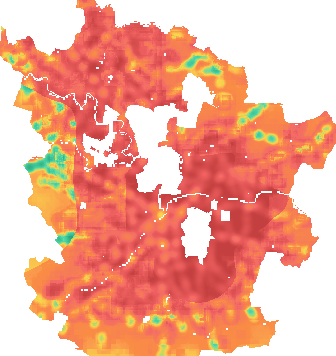
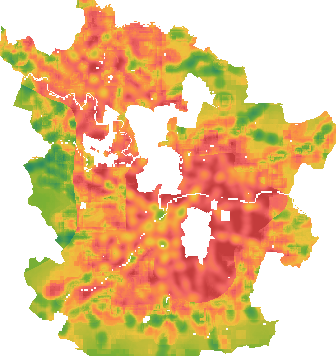
fix(transit-desert): recalibrate color ramp with Natural Breaks so green transit corridors are clearly visible

diff --git a/src/components/Sidebar.tsx b/src/components/Sidebar.tsx
@@ -489,26 +489,26 @@ export const Sidebar: React.FC<SidebarProps> = ({
               </div>
               <div style={{ display: 'flex', alignItems: 'center', justifyContent: 'space-between' }}>
                 <span style={{ display: 'flex', alignItems: 'center', gap: '6px', color: '#1e293b', fontWeight: 600 }}>
-                  <span style={{ width: '10px', height: '10px', borderRadius: '2px', background: '#dc2626', flexShrink: 0 }} />
-                  Critical Desert (&lt; -0.45)
+                  <span style={{ width: '10px', height: '10px', borderRadius: '2px', background: '#b91c1c', flexShrink: 0 }} />
+                  Critical Desert (&lt; -0.62)
                 </span>
-                <span style={{ fontSize: '9.5px', color: '#dc2626', background: '#fef2f2', padding: '1px 5px', borderRadius: '3px', fontWeight: 700 }}>
+                <span style={{ fontSize: '9.5px', color: '#b91c1c', background: '#fef2f2', padding: '1px 5px', borderRadius: '3px', fontWeight: 700 }}>
                   Severe Deficit
                 </span>
               </div>
               <div style={{ display: 'flex', alignItems: 'center', justifyContent: 'space-between' }}>
                 <span style={{ display: 'flex', alignItems: 'center', gap: '6px', color: '#1e293b', fontWeight: 600 }}>
                   <span style={{ width: '10px', height: '10px', borderRadius: '2px', background: '#f97316', flexShrink: 0 }} />
-                  High Deficit (-0.45 to -0.15)
+                  High Deficit (-0.62 to -0.44)
                 </span>
                 <span style={{ fontSize: '9.5px', color: '#ea580c', background: '#fff7ed', padding: '1px 5px', borderRadius: '3px', fontWeight: 700 }}>
-                  Deficit
+                  High Deficit
                 </span>
               </div>
               <div style={{ display: 'flex', alignItems: 'center', justifyContent: 'space-between' }}>
                 <span style={{ display: 'flex', alignItems: 'center', gap: '6px', color: '#1e293b', fontWeight: 600 }}>
-                  <span style={{ width: '10px', height: '10px', borderRadius: '2px', background: '#facc15', flexShrink: 0 }} />
-                  Moderate Deficit (-0.15 to 0.0)
+                  <span style={{ width: '10px', height: '10px', borderRadius: '2px', background: '#eab308', flexShrink: 0 }} />
+                  Moderate Deficit (-0.44 to -0.27)
                 </span>
                 <span style={{ fontSize: '9.5px', color: '#ca8a04', background: '#fefce8', padding: '1px 5px', borderRadius: '3px', fontWeight: 700 }}>
                   Moderate
@@ -516,11 +516,20 @@ export const Sidebar: React.FC<SidebarProps> = ({
               </div>
               <div style={{ display: 'flex', alignItems: 'center', justifyContent: 'space-between' }}>
                 <span style={{ display: 'flex', alignItems: 'center', gap: '6px', color: '#1e293b', fontWeight: 600 }}>
-                  <span style={{ width: '10px', height: '10px', borderRadius: '2px', background: '#10b981', flexShrink: 0 }} />
-                  Transit Oasis (&gt; 0.0)
+                  <span style={{ width: '10px', height: '10px', borderRadius: '2px', background: '#65a30d', flexShrink: 0 }} />
+                  Accessible (-0.27 to -0.07)
                 </span>
-                <span style={{ fontSize: '9.5px', color: '#059669', background: '#ecfdf5', padding: '1px 5px', borderRadius: '3px', fontWeight: 700 }}>
-                  Surplus
+                <span style={{ fontSize: '9.5px', color: '#65a30d', background: '#f7fee7', padding: '1px 5px', borderRadius: '3px', fontWeight: 700 }}>
+                  Low Deficit (27%)
+                </span>
+              </div>
+              <div style={{ display: 'flex', alignItems: 'center', justifyContent: 'space-between' }}>
+                <span style={{ display: 'flex', alignItems: 'center', gap: '6px', color: '#1e293b', fontWeight: 600 }}>
+                  <span style={{ width: '10px', height: '10px', borderRadius: '2px', background: '#047857', flexShrink: 0 }} />
+                  Transit Oasis (&gt; -0.07)
+                </span>
+                <span style={{ fontSize: '9.5px', color: '#047857', background: '#ecfdf5', padding: '1px 5px', borderRadius: '3px', fontWeight: 700 }}>
+                  High Supply (9%)
                 </span>
               </div>
               <div style={{ fontSize: '9.5px', color: '#64748b', marginTop: '2px', borderTop: '1px dashed #e2e8f0', paddingTop: '4px' }}>

diff --git a/src/components/Map.tsx b/src/components/Map.tsx
@@ -597,7 +597,7 @@ export const GISMap: React.FC<MapProps> = ({
     ];
 
     const base = import.meta.env.BASE_URL;
-    const overlay = L.imageOverlay(`${base}transit_desert_surface.png`, bounds, {
+    const overlay = L.imageOverlay(`${base}transit_desert_surface.png?v=2`, bounds, {
       pane: 'transitDesertPane',
       opacity: 0.82,
       interactive: false,
@@ -624,26 +624,26 @@ export const GISMap: React.FC<MapProps> = ({
       if (col >= 0 && col < cols && row >= 0 && row < rows) {
         const val = values[row * cols + col];
         if (val !== null && val !== undefined) {
-          let statusText = 'Transit Oasis (Supply > Demand)';
-          let statusColor = '#059669';
+          let statusText = 'Transit Oasis (High Supply / Corridor)';
+          let statusColor = '#047857';
           let statusBg = '#ecfdf5';
 
-          if (val < -0.45) {
+          if (val < -0.62) {
             statusText = 'Critical Transit Desert (Severe Deficit)';
-            statusColor = '#dc2626';
+            statusColor = '#b91c1c';
             statusBg = '#fef2f2';
-          } else if (val < -0.15) {
-            statusText = 'High Transit Desert (Deficit)';
+          } else if (val < -0.44) {
+            statusText = 'High Transit Deficit';
             statusColor = '#ea580c';
             statusBg = '#fff7ed';
-          } else if (val < 0.0) {
-            statusText = 'Moderate Transit Deficit';
+          } else if (val < -0.27) {
+            statusText = 'Moderate Deficit / Developing';
             statusColor = '#d97706';
             statusBg = '#fffbeb';
-          } else if (val < 0.15) {
-            statusText = 'Marginal / Balanced Service';
-            statusColor = '#10b981';
-            statusBg = '#f0fdf4';
+          } else if (val < -0.07) {
+            statusText = 'Transit Accessible / Low Deficit';
+            statusColor = '#65a30d';
+            statusBg = '#f7fee7';
           }
 
           L.popup({ offset: [0, -4] })
